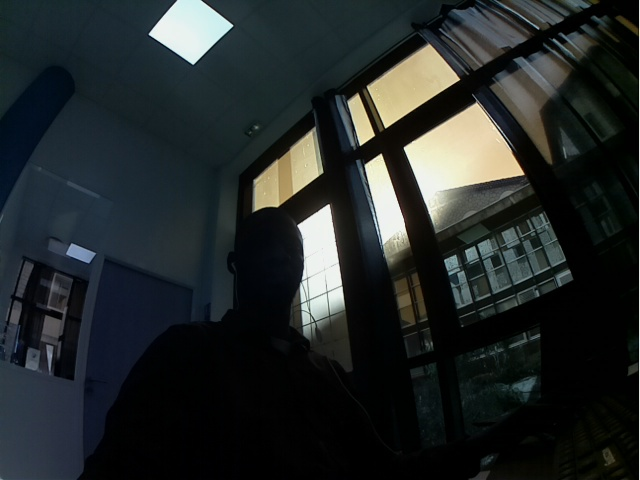
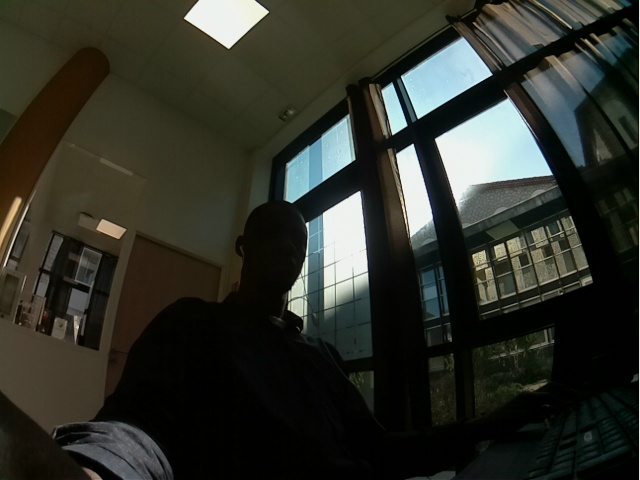
g

diff --git a/test.py b/test.py
@@ -7,6 +7,6 @@ while True :
     _ , frame = cap.read()
     if _ : 
         print('bon' ) 
-        cv2.imwrite("img.jpg" , cv2.cvtColor(frame , cv2.COLOR_BGR2RGB)) 
+        cv2.imwrite("img.jpg" , frame) 
     else : print("pas bien " ) 
 
